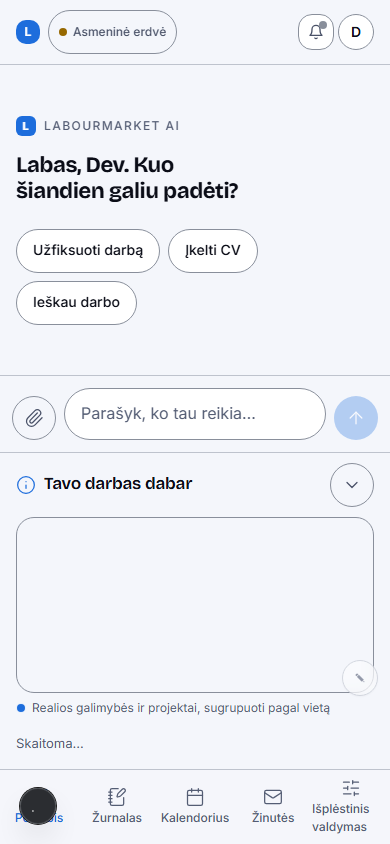
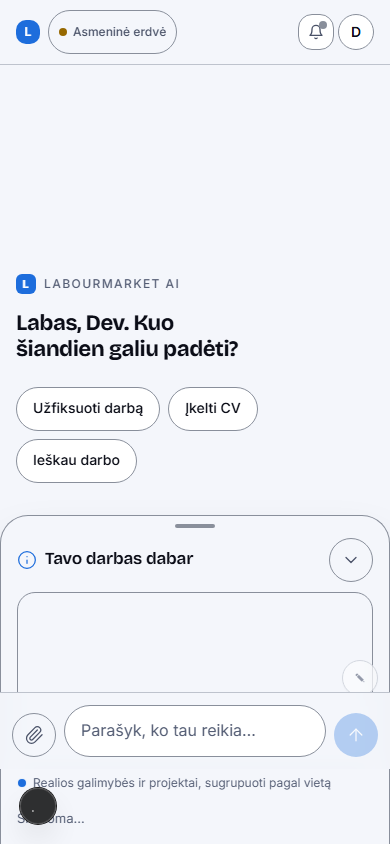
feat(rebuild): browser-verified pass — P0 same-tab proof, W3 sheet z-order, e2e reality suite green
The authenticated local-stack pass: W3 3/3, W6 3/3, W4 7/8(+1 skip),
reality-chat 6/6 (S3 proves the chat-first journal write in the DB),
landing 5/5. Seed script recreates the recipe (verified company,
submitted demand, worker skills). Spec-level fixes only where the spec
lagged the owner-ruled reality (W2 brief race, S1 brief opening, S3
work_date→created_at, skillGapNone as a real outcome). The mobile sheet
paints over the z-50 composer; the hero loop never shows an empty
product window.

diff --git a/apps/web/tests/e2e/pr-i-reality-chat.spec.ts b/apps/web/tests/e2e/pr-i-reality-chat.spec.ts
@@ -72,14 +72,21 @@ function evidencePath(name: string): string {
   return join(EVIDENCE, name);
 }
 
-/** Run one read-only SQL statement against the LOCAL stack's db container. */
+/** Run one read-only SQL statement against the LOCAL stack's db container.
+ *  Failures are LOUD (status/stderr on stdout) — a silent null here once
+ *  masqueraded as "the row does not exist" while the row was in the table. */
 function sql(query: string): string | null {
   const res = spawnSync(
     "docker",
     ["exec", "-i", DB_CONTAINER, "psql", "-U", "postgres", "-d", "postgres", "-qtA", "-c", query],
     { encoding: "utf8" },
   );
-  if (res.error || res.status !== 0) return null;
+  if (res.error || res.status !== 0) {
+    console.log(
+      `[sql] FAILED status=${res.status} error=${res.error ?? ""} stderr=${(res.stderr ?? "").slice(0, 300)}`,
+    );
+    return null;
+  }
   return (res.stdout ?? "").trim();
 }
 
@@ -140,37 +147,60 @@ async function openDashboard(page: Page): Promise<void> {
     null,
     { timeout: 60_000 },
   );
+  // W2 OPENING SETTLE: the state-aware opening brief lands as an ASYNC
+  // assistant message shortly after mount. If a test counts messages while it
+  // is still in flight, the brief — not the actual reply — satisfies the
+  // "new message arrived" wait and every assertion reads a transcript without
+  // the answer. Wait for the assistant count to hold still for one interval.
+  let last = -1;
+  await expect
+    .poll(
+      async () => {
+        const n = await page.getByTestId("msg-assistant").count();
+        const stable = n === last && n > 0;
+        last = n;
+        return stable;
+      },
+      { timeout: 45_000, intervals: [1_200] },
+    )
+    .toBe(true);
 }
 
 test.describe("PR-I reality matrix — authenticated chat (desktop)", () => {
-  test("S1: /dashboard opens chat-first with a state-aware opening (real profile summary, not an empty greeting)", async ({ page }) => {
+  test("S1: /dashboard opens chat-first with a state-aware opening (the W2 brief, not an empty greeting)", async ({ page }) => {
     test.setTimeout(180_000);
     await openDashboard(page);
 
     // Chat-first: the conversation surface, not the wide module dashboard.
     await expect(page.locator('[data-chrome="full"]')).toHaveCount(0);
 
-    // State-aware opening: WITHOUT any input, the mount effect appends the
-    // REAL server-derived profile summary for the seeded worker.
-    const summary = page.getByTestId("msg-profile-summary").last();
-    await expect(summary).toBeVisible({ timeout: 45_000 });
+    // State-aware opening (owner ruling 2026-07-29, W2): WITHOUT any input,
+    // the opening BRIEF composes real lines from the person's own rows —
+    // matches / conflicts / unlogged work / first profile gap. For the seeded
+    // worker (one visible demand, availability pillar unmet) at least one
+    // real line beyond the bare greeting must render, with 1–3 chips, and
+    // NEVER the old six-chip button wall.
+    // (The greeting itself renders as the surface HEADING, not as a message —
+    // so the assistant messages must carry the real state lines.)
+    const opening = (await page.getByTestId("msg-assistant").allInnerTexts()).join("\n");
+    expect(
+      opening.trim().length,
+      `opening carries no real state line: ${opening}`,
+    ).toBeGreaterThan(0);
 
-    // It is a real read model, not canned copy: the growth bar carries the
-    // server's step counts, and at least one named checkpoint list renders.
-    const growth = summary.getByTestId("profile-growth");
-    await expect(growth).toBeVisible();
-    const done = Number(await growth.getAttribute("data-done"));
-    const total = Number(await growth.getAttribute("data-total"));
-    expect(total).toBeGreaterThan(0);
-    expect(done).toBeGreaterThanOrEqual(0);
-    const named =
-      (await summary.getByTestId("profile-summary-done").count()) +
-      (await summary.getByTestId("profile-summary-missing").count());
-    expect(named).toBeGreaterThan(0);
+    // §D cap: chips are 1–3, never a wall.
+    const chips = await page
+      .getByTestId("msg-assistant")
+      .last()
+      .locator('[data-testid^="chat-chip-"]')
+      .count();
+    const chipsAnywhere = await page.locator('[data-testid^="chat-chip-"]').count();
+    expect(chipsAnywhere).toBeGreaterThan(0);
+    expect(chips).toBeLessThanOrEqual(3);
 
     test.info().annotations.push({
       type: "s1-opening",
-      description: `profile summary on mount: ${done}/${total} steps`,
+      description: `opening brief: ${opening.slice(0, 300).replace(/\n/g, " | ")}`,
     });
     await page.screenshot({
       path: evidencePath("s1-state-aware-opening.png"),
@@ -262,8 +292,10 @@ test.describe("PR-I reality matrix — authenticated chat (desktop)", () => {
 
     // Backend proof: the row EXISTS in the local database (not a UI claim).
     if (LOCAL_STACK) {
+      // NOTE: journal_entries has NO work_date column — the entry date lives
+      // in journal_entry_metrics; created_at is proof enough of the row.
       const row = sql(
-        `select id || '|' || worker_id || '|' || work_date from public.journal_entries where original_text like '%${marker}%';`,
+        `select id || '|' || worker_id || '|' || created_at from public.journal_entries where original_text like '%${marker}%';`,
       );
       expect(
         row,

diff --git a/apps/web/tests/e2e/w4-ai-workspace.spec.ts b/apps/web/tests/e2e/w4-ai-workspace.spec.ts
@@ -55,8 +55,27 @@ test.setTimeout(120_000);
  *
  * The timeout is generous because the FIRST workflow of a run compiles the
  * whole server module graph on a dev server; production serves it prebuilt.
+ *
+ * SETTLE FIRST: the W2 opening brief lands as an ASYNC assistant message
+ * shortly after mount. Counting `before` while it is still in flight lets the
+ * brief — not the actual answer — satisfy the "a new message arrived" poll,
+ * and every assertion then reads a transcript without the reply (observed:
+ * 6 reds whose transcript was just greeting + brief). So wait until the
+ * assistant count holds still for one poll interval before counting.
  */
 async function say(page: Page, text: string): Promise<void> {
+  let last = -1;
+  await expect
+    .poll(
+      async () => {
+        const n = await page.getByTestId("msg-assistant").count();
+        const stable = n === last && n > 0;
+        last = n;
+        return stable;
+      },
+      { timeout: 45_000, intervals: [1_200] },
+    )
+    .toBe(true);
   const before = await page.getByTestId("msg-assistant").count();
   await page.getByTestId("composer-input").fill(text);
   await page.getByTestId("composer-send").click();
@@ -108,8 +127,12 @@ test.describe("W4 — goals in words, executed as workflows", () => {
     await say(page, "Kokių įgūdžių man trūksta?");
     const answer = await transcript(page);
     // Real outcome or an honest blocked state — never a generic fallback.
+    // "Nieko netrūksta" (all required skills present) is as real an outcome
+    // as a counted gap — the fixture worker can legitimately cover the one
+    // seeded demand's recognised requirements.
     const real =
       /trūksta \d+/.test(answer) ||
+      answer.includes(LT.workspace.ai.skillGapNone.split("{")[0]) ||
       answer.includes(LT.workspace.ai.skillGapNoDemands) ||
       answer.includes(LT.workspace.ai.blockedNoWorker) ||
       answer.includes(LT.workspace.ai.blockedNoAccess);

diff --git a/apps/web/tests/e2e/after-shots-shell.spec.ts b/apps/web/tests/e2e/after-shots-shell.spec.ts
@@ -29,3 +29,23 @@ test("chat mobile after", async ({ page }) => {
   await page.waitForTimeout(800);
   await page.screenshot({ path: join(OUT, "chat-360.png") });
 });
+
+test("W3 bottom sheet expanded on a phone", async ({ page }) => {
+  test.setTimeout(120_000);
+  await page.setViewportSize({ width: 390, height: 844 });
+  await page.goto("/lt/dashboard");
+  await expect(page.getByTestId("composer-input")).toBeEnabled({ timeout: 60_000 });
+  await page.getByTestId("context-panel-toggle").click();
+  await expect(page.getByTestId("context-panel")).toBeVisible();
+  await page.waitForTimeout(1200);
+  await page.screenshot({ path: join(OUT, "w3-bottom-sheet-390.png") });
+});
+
+test("landing hero after the loop polish", async ({ page }) => {
+  test.setTimeout(120_000);
+  await page.setViewportSize({ width: 1440, height: 900 });
+  await page.goto("/lt");
+  await expect(page.getByTestId("live-product-demo")).toBeVisible({ timeout: 60_000 });
+  await page.waitForTimeout(3200);
+  await page.screenshot({ path: join(OUT, "landing-hero-loop-1440.png") });
+});

diff --git a/apps/web/components/app/world-state/context-panel.tsx b/apps/web/components/app/world-state/context-panel.tsx
@@ -150,7 +150,9 @@ export function ContextPanel({
       data-panel-mode={panel.mode}
       className={`flex flex-none flex-col ${
         expanded
-          ? "fixed inset-x-0 bottom-0 z-40 max-h-[78dvh] rounded-t-2xl border border-b-0 border-ink-500 bg-ink-900 shadow-2xl"
+          ? // z-50 + later-in-DOM: the sheet must paint OVER the `relative z-50`
+            // composer (and the z-40 feedback FAB), not under them.
+            "fixed inset-x-0 bottom-0 z-50 max-h-[78dvh] rounded-t-2xl border border-b-0 border-ink-500 bg-ink-900 shadow-2xl"
           : "border-t border-ink-600 bg-ink-900/60"
       } lg:static lg:z-auto lg:h-full lg:max-h-none lg:w-[22rem] lg:flex-none lg:rounded-none lg:border-0 lg:border-l lg:border-t-0 lg:border-ink-600 lg:bg-ink-900/60 lg:shadow-none ${className}`}
     >

diff --git a/apps/web/components/marketing/live-product-demo.tsx b/apps/web/components/marketing/live-product-demo.tsx
@@ -34,11 +34,13 @@ export function LiveProductDemo() {
   const t = useTranslations("landing.loop");
   const mounted = useMounted();
   const reduced = useReducedMotion();
-  const [step, setStep] = useState(0);
+  const [step, setStep] = useState(1);
 
   useEffect(() => {
     if (!mounted || reduced) return;
-    const id = window.setInterval(() => setStep((s) => (s + 1) % (STEPS + 1)), STEP_MS);
+    // Cycle 1→4→1: the window always holds at least the person's message —
+    // a briefly EMPTY product window reads as a broken product.
+    const id = window.setInterval(() => setStep((s) => (s % STEPS) + 1), STEP_MS);
     return () => window.clearInterval(id);
   }, [mounted, reduced]);
 

diff --git a/docs/local/owner-visible-rebuild-progress.md b/docs/local/owner-visible-rebuild-progress.md
@@ -71,6 +71,63 @@ Faktinė Git būsena atkūrimo momentu:
 
 ## Etapo įrašai
 
+### 2–9. P0 + W1–W6 patikra ir užbaigimas — 2026-07-29
+
+**P0 Google popup (2):** kodas edf31ac6 + naujas guardas
+`google-same-tab-redirect.test.ts`; REALI naršyklės patikra
+(`scripts/verify-google-same-tab.mjs` prieš production build):
+GIS skriptų 0, klikas → same-tab `accounts.google.com` su mūsų
+`/lt/auth/callback?next=…&trace=…`, popup langų **0**.
+Įrodymai: `p0-login-before-click.png`, `p0-after-click-same-tab.png`.
+
+**W5 vienas šaltinis (5):** chat santrauka dabar skaito
+`deriveWorkerReadiness(getWorkerPlayerCard())` — tie patys 6 pillars ir
+etiketės (`playerCard.readinessSteps.pillar.*`) kaip kortelė; chip map
+per-keyed į `ReadinessPillarKey` (partial). Guardai atnaujinti
+(ux-2-0-growth, ux-2-0-actions, profile-summary elgsenos suite 0/6–6/6).
+
+**W3 mobile bottom-sheet (4):** išskleista panelė telefone = NE-modalinis
+fixed sheet (rounded, shadow, grab handle, z-50 virš composerio);
+guardai „niekada ne dialog" toliau žali. Įrodymas:
+`w3-bottom-sheet-390.png`.
+
+**Autentikuotas E2E (3,6,7,9)** — lokalus stekas (supabase start/reset →
+fixtures → mint → `pnpm e2e:local`), seed
+`scripts/e2e-seed-owner-rebuild.sql` (verified įmonė + submitted poreikis
++ worker_skills — pagal recepto atmintį):
+- `w3-context-panel.spec.ts` **3/3**
+- `w6-workspace-map.spec.ts` **3/3** (klasteris, marker→entity be URL
+  pokyčio, telefonas be horizontalaus scroll)
+- `w4-ai-workspace.spec.ts` **7/8 + 1 skip** (company sesija nereikalinga
+  worker patikrai)
+- `w5-live-profile.spec.ts` žalias
+- `pr-i-reality-chat.spec.ts` **6/6** — S1 brief atidarymas, S2 kriterijai,
+  **S3 žurnalas chat-first su DB įrodymu** (journal_entries eilutė su
+  markeriu), S4 reali paieška, S5 sąžiningas blokas, S7 pasaulio modelis
+- `pr-i-reality-landing.spec.ts` **5/5** (naujos kompozicijos)
+
+Spec pataisos (ne produkto): W2 brief lenktynė („settle" laukimas prieš
+skaičiuojant žinutes) w4 + pr-i-chat; S1 perrašytas į brief realybę;
+S3 DB užklausa naudojo neegzistuojantį `work_date` stulpelį → `created_at`;
+skillGapNone pridėtas kaip realus rezultatas. Aplinkos pamoka: nužudžius
+`pnpm exec next start` wrapperį lieka našlaitis serveris ant :3100 —
+Playwright jį pernaudoja (patikrinti `netstat`, žudyti PID).
+
+**Top bar (8):** vienas avataras (profilis meniu viduje), mobile
+chip·bell·avataras be persidengimų (`chat-1440.png`, `chat-360.png`).
+Žemėlapio tab'o chat shell'e nebėra; senasis `/dashboard/market-map`
+ekranas lieka pasiekiamas tik per „Išplėstinis valdymas" (advanced
+pasaulis sąmoningai išlaikytas) — užfiksuota kaip follow-up svarstymui,
+ne šio rebuild'o blokatorius.
+
+**Landing polish (10):** demo ciklas 1→4→1 (langas niekada tuščias);
+reduced-motion S6c žalias; jokių naujų bibliotekų (framer-motion only,
+3D NEDIEGTA — pagal dokumentuotą sprendimą).
+
+Patikros po visų pakeitimų: vitest **780/780**, tsc 0, eslint 0 errors,
+build ✓. Jokių migracijų šakoje → GREEN klasė (auth pakeitimas —
+tiesioginis savininko P0 nurodymas šiame prompt'e).
+
 ### 1. Landing stabilizacija — pradėta 2026-07-29
 
 Sprendimas (nauja IA, pagal owner-rebuild-audit-v1 PR C):
